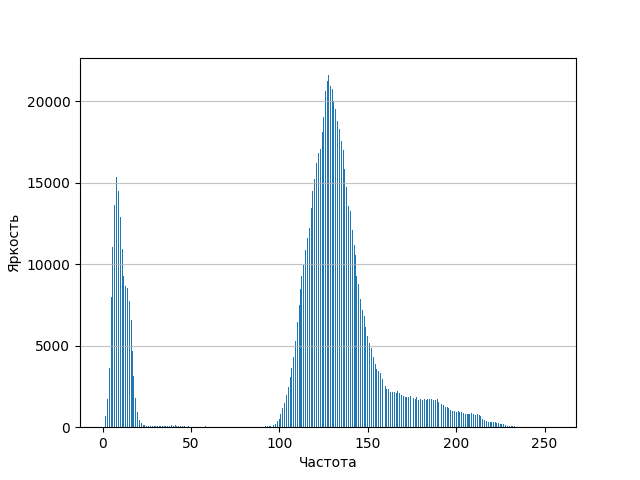
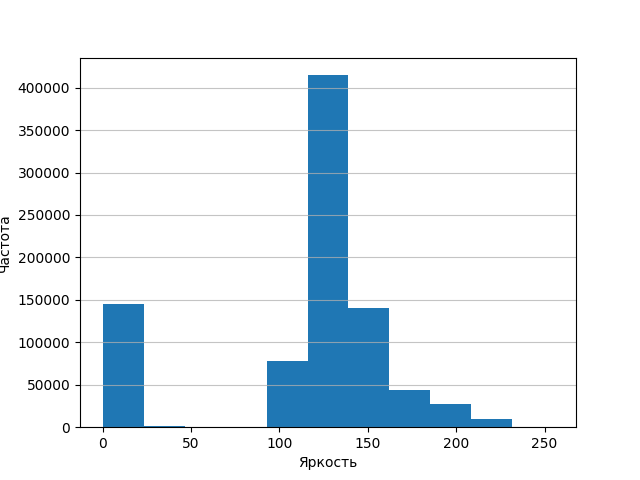
ДЗ 1 исправил

diff --git a/task1/task1.py b/task1/task1.py
@@ -3,9 +3,10 @@ import io
 
 import matplotlib.pyplot as plt
 from PIL import Image
+from numpy import histogram as hist
 
 
-# Конвертирование изображения в оттенки серого:
+# конвертирование изображения в оттенки серого:
 def convert_image(input_image):
     # сначала копируем исходное изображение
     output_image = input_image.copy()
@@ -31,11 +32,31 @@ def create_histogram(input_image):
             brightness = input_image.getpixel((x, y))
             data.append(brightness[0])
 
-    # собираем гистограмму
-    plt.hist(x=data, bins='auto')
+    # собираем массив гистограммы
+    hist_array = hist(data, 11)
+    local_min = []
+    local_min_values = []
+
+    # находим позиции локальных минимумов
+    for i in range(1, len(hist_array[0]) - 1):
+        if (hist_array[0][i] < hist_array[0][i - 1]) & (hist_array[0][i] < hist_array[0][i + 1]):
+            local_min.append(i)
+
+    # находим промежутки локальных минимумов и берем середину промежутка как локальный минимум
+    for i in local_min:
+        local_min_values.append(int((hist_array[1][i] + hist_array[1][i + 1]) / 2))
+
+    # записываем данные в .csv файл
+    with open('output/histogram.csv', 'w+') as hist_text:
+        writer = csv.writer(hist_text)
+        writer.writerow(local_min_values)
+        writer.writerow(hist_array)
+
+    # собираем графическую гистограмму
+    plt.hist(x=data, bins=11)
     plt.grid(axis='y', alpha=0.75)
-    plt.xlabel('Частота')
-    plt.ylabel('Яркость')
+    plt.xlabel('Яркость')
+    plt.ylabel('Частота')
 
     # сохраняем гистограмму во временный буфер и затем открываем как PIL-объект
     img_buf = io.BytesIO()
@@ -50,34 +71,53 @@ def swap_color(input_image):
     # копируем входное изображение
     output_image = input_image.copy()
 
+    # читаем массив локальных минимумов из файла
+    with open('output/histogram.csv', 'r') as hist_text:
+        reader = csv.reader(hist_text)
+        for row in reader:
+            threshold = row
+            break
+
     # обходим пиксели
     for x in range(output_image.width):
         for y in range(output_image.height):
-            # из гистограммы выяснили, что первая область
-            # однородности начинается на значении 0, а заканчивается на 25,
-            # поэтому все пиксели с яркостью не более 25 красим в красный
+            # из массива с локальными минимумами берем первый
+            # и используем как порог
+            # красим все пиксели с яркостью не более пороговой в красный цвет
             brightness = output_image.getpixel((x, y))
-            if brightness[0] <= 25:
+            if brightness[0] <= int(threshold[0]):
                 output_image.putpixel((x, y), (255, 0, 0))
+
     return output_image
 
 
 # заполнение .csv файла
-def fill_csv(input_file, normal_image, grayscale_image):
+def fill_csv(input_file, input_image):
     # инициализируем csv-писателя
     writer = csv.writer(input_file)
 
-    # заполняем шапку
-    writer.writerow(['R', 'G', 'B', 'label'])
+    # читаем массив локальных минимумов из файла
+    with open('output/histogram.csv', 'r') as hist_text:
+        reader = csv.reader(hist_text)
+        for row in reader:
+            mins = row
+            break
 
     # обходим пиксели, из цветной версии изображения берем
     # значения RGB для каждого пикселя, а из Ч/Б - яркость
     # и заносим в .csv; RGB как R, G и B, а яркость как label
-    for x in range(normal_image.width):
-        for y in range(normal_image.height):
-            r, g, b = normal_image.getpixel((x, y))
-            brightness = grayscale_image.getpixel((x, y))
-            writer.writerow([r, g, b, brightness[0]])
+    for x in range(input_image.width):
+        row = []
+        for y in range(input_image.height):
+            r, g, b = input_image.getpixel((x, y))
+            label = len(mins)
+            for i in range(len(mins)):
+                if r <= int(mins[i]):
+                    label = i
+                    break
+
+            row.append([r, g, b, label])
+        writer.writerow(row)
 
     return input_file
 
@@ -97,4 +137,4 @@ swapped_colors.save("output/plane_red.png")
 
 # заполняем .csv
 with open('output/pixels.csv', 'w+') as file:
-    fill_csv(file, img, grayscale_img)
+    fill_csv(file, grayscale_img)
